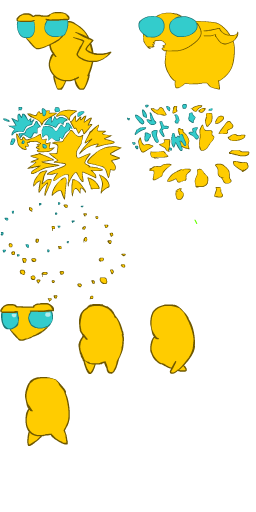
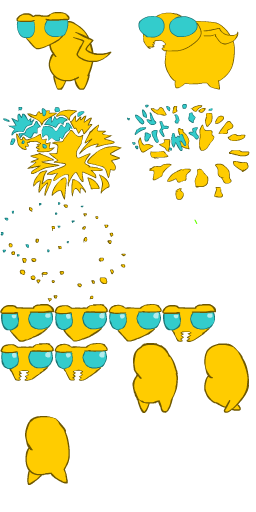
Creating an animator to the player's head

Changed region(s): [[0.0, 0.5938, 0.9688, 0.9688]]

diff --git a/GameCore/ThisGame/PlayerStuff/Player.cs b/GameCore/ThisGame/PlayerStuff/Player.cs
@@ -16,6 +16,7 @@ namespace PaperWork
     //close game when ESC pressed
     // jump animation
     // look up animation (open mouth)
+    //antenas
     public class Player :
         Collider
         , ICollisionHandler
@@ -46,7 +47,8 @@ namespace PaperWork
         private readonly ICollisionHandler CollisionHandler;
         private readonly IUpdateHandler UpdateHandler;
         public readonly InputRepository Inputs;
-        private readonly Animator Animation;
+        private readonly Animator BodyAnimation;
+        private readonly Animator HeadAnimation;
 
         public bool FacingRight { get; set; }
         public bool AnimationFacingRight { get; set; }
@@ -61,7 +63,8 @@ namespace PaperWork
             Width = 700;
             Height = 1100;
 
-            Animation = CreateAnimator();
+            BodyAnimation = CreateBodyAnimator();
+            HeadAnimation = CreateHeadAnimator();
 
             Right_ChestPaperDetetor = new Detector<IPlayerMovementBlocker>(1150, -500, 100, 100) { Parent = this };
             Right_FeetPaperDetector = new Detector<IPlayerMovementBlocker>(1150, 500, 100, 100) { Parent = this };
@@ -107,39 +110,30 @@ namespace PaperWork
             world.Add(this);
         }
 
-        private Animator CreateAnimator()
+        private Animator CreateHeadAnimator()
         {
-            var leftOffsetX = -300;
+            var head_right = GeneratedContent.Create_recycle_mantis_Head(200, -100, 0.85f, (int)(540 * 1.4f), (int)(380 * 1.4f), true);
+            var head_left = GeneratedContent.Create_recycle_mantis_Head(leftOffsetX, -100, 0.85f, (int)(540 * 1.4f), (int)(380 * 1.4f));
 
+            var Animator = new Animator(
+                new AnimationTransition(new Animation[] { head_right }, head_left, () => AnimationFacingRight == false)
+                , new AnimationTransition(new Animation[] { head_left }, head_right, () => AnimationFacingRight)
+
+            );
+
+            return Animator;
+        }
+
+        const int leftOffsetX = -300;
+        private Animator CreateBodyAnimator()
+        {
             var walkingWidth = (int)(700 * 1.4f);
-            var head_right = new Texture("Head", 200, -100, (int)(540 * 1.4f), (int)(380 * 1.4f)) { ZIndex = 0.01f, Flipped = true };
-            var head_left = new Texture("Head", leftOffsetX, -100, (int)(540 * 1.4f), (int)(380 * 1.4f)) { ZIndex = 0.01f };
 
-            SimpleAnimation stand_right = new SimpleAnimation(
-                 new AnimationFrame(10,
-                 new Texture("Walk0001", 0, 100, walkingWidth, walkingWidth) { Flipped = true, ZIndex = 1 }
-                 , head_right)
+            var walkAnimation_right = GeneratedContent.Create_recycle_mantis_Walk(0, 100, 0.86f, walkingWidth, walkingWidth, true);
+            var walkAnimation_left = GeneratedContent.Create_recycle_mantis_Walk(leftOffsetX, 100, 0.86f, walkingWidth, walkingWidth);
 
-            );
-
-            SimpleAnimation stand_left = new SimpleAnimation(
-                new AnimationFrame(10, new Texture("Walk0001", leftOffsetX, 100, walkingWidth, walkingWidth) { ZIndex = 1 }
-                , head_left)
-            );
-
-            SimpleAnimation walkAnimation_right = new SimpleAnimation(
-                  new AnimationFrame(10, new Texture("Walk0001", 0, 100, walkingWidth, walkingWidth) { Flipped = true, ZIndex = 1 }, head_right)
-                , new AnimationFrame(10, new Texture("Walk0002", 0, 100, walkingWidth, walkingWidth) { Flipped = true, ZIndex = 1 }, head_right)
-                , new AnimationFrame(10, new Texture("Walk0001", 0, 100, walkingWidth, walkingWidth) { Flipped = true, ZIndex = 1 }, head_right)
-                , new AnimationFrame(10, new Texture("Walk0003", 0, 100, walkingWidth, walkingWidth) { Flipped = true, ZIndex = 1 }, head_right)
-            );
-
-            SimpleAnimation walkAnimation_left = new SimpleAnimation(
-                 new AnimationFrame(10, new Texture("Walk0001", leftOffsetX, 100, walkingWidth, walkingWidth) { ZIndex = 1 }, head_left)
-                , new AnimationFrame(10, new Texture("Walk0002", leftOffsetX, 100, walkingWidth, walkingWidth) { ZIndex = 1 }, head_left)
-                , new AnimationFrame(10, new Texture("Walk0001", leftOffsetX, 100, walkingWidth, walkingWidth) { ZIndex = 1 }, head_left)
-                , new AnimationFrame(10, new Texture("Walk0003", leftOffsetX, 100, walkingWidth, walkingWidth) { ZIndex = 1 }, head_left)
-            );
+            var stand_right = GeneratedContent.Create_recycle_mantis_Walk(0, 100, 0.86f, walkingWidth, walkingWidth, true);
+            var stand_left = GeneratedContent.Create_recycle_mantis_Walk(leftOffsetX, 100, 0.86f, walkingWidth, walkingWidth);
 
             var Animator = new Animator(
                 new AnimationTransition(
@@ -189,7 +183,8 @@ namespace PaperWork
 
         public void Update()
         {
-            Animation.Update();
+            BodyAnimation.Update();
+            HeadAnimation.Update();
             Grounded = GroundDetector.GetDetectedItems().Any();
 
             UpdateHandler.Update();
@@ -231,7 +226,7 @@ namespace PaperWork
 
         public IEnumerable<Texture> GetTextures()
         {
-            return Animation.GetTextures();
+            return BodyAnimation.GetTextures().Concat(HeadAnimation.GetTextures());
         }
     }
 }

diff --git a/SharedContent/GeneratedContent.cs b/SharedContent/GeneratedContent.cs
@@ -51,7 +51,21 @@ public class GeneratedContent
     {
         var animation = new SimpleAnimation(
             
-            new AnimationFrame(10, new GameCore.Texture("recycle_mantis", X, Y, Width, Height, new Rectangle(0, 303, 54, 38)){ ZIndex = Z, Flipped = Flipped })
+            new AnimationFrame(10, new GameCore.Texture("recycle_mantis", X, Y, Width, Height, new Rectangle(0, 303, 54, 39)){ ZIndex = Z, Flipped = Flipped }),
+            new AnimationFrame(10, new GameCore.Texture("recycle_mantis", X, Y, Width, Height, new Rectangle(54, 303, 54, 39)){ ZIndex = Z, Flipped = Flipped }),
+            new AnimationFrame(10, new GameCore.Texture("recycle_mantis", X, Y, Width, Height, new Rectangle(108, 303, 54, 39)){ ZIndex = Z, Flipped = Flipped })
+        );
+
+        return animation;
+    }
+
+    public static SimpleAnimation Create_recycle_mantis_HeadUp(int X, int Y, float Z, int Width, int Height, bool Flipped = false)
+    {
+        var animation = new SimpleAnimation(
+            
+            new AnimationFrame(10, new GameCore.Texture("recycle_mantis", X, Y, Width, Height, new Rectangle(162, 303, 54, 39)){ ZIndex = Z, Flipped = Flipped }),
+            new AnimationFrame(10, new GameCore.Texture("recycle_mantis", X, Y, Width, Height, new Rectangle(0, 342, 54, 39)){ ZIndex = Z, Flipped = Flipped }),
+            new AnimationFrame(10, new GameCore.Texture("recycle_mantis", X, Y, Width, Height, new Rectangle(54, 342, 54, 39)){ ZIndex = Z, Flipped = Flipped })
         );
 
         return animation;
@@ -61,9 +75,9 @@ public class GeneratedContent
     {
         var animation = new SimpleAnimation(
             
-            new AnimationFrame(10, new GameCore.Texture("recycle_mantis", X, Y, Width, Height, new Rectangle(54, 303, 71, 72)){ ZIndex = Z, Flipped = Flipped }),
-            new AnimationFrame(10, new GameCore.Texture("recycle_mantis", X, Y, Width, Height, new Rectangle(125, 303, 71, 72)){ ZIndex = Z, Flipped = Flipped }),
-            new AnimationFrame(10, new GameCore.Texture("recycle_mantis", X, Y, Width, Height, new Rectangle(0, 375, 71, 72)){ ZIndex = Z, Flipped = Flipped })
+            new AnimationFrame(10, new GameCore.Texture("recycle_mantis", X, Y, Width, Height, new Rectangle(108, 342, 71, 72)){ ZIndex = Z, Flipped = Flipped }),
+            new AnimationFrame(10, new GameCore.Texture("recycle_mantis", X, Y, Width, Height, new Rectangle(179, 342, 71, 72)){ ZIndex = Z, Flipped = Flipped }),
+            new AnimationFrame(10, new GameCore.Texture("recycle_mantis", X, Y, Width, Height, new Rectangle(0, 414, 71, 72)){ ZIndex = Z, Flipped = Flipped })
         );
 
         return animation;

diff --git a/GameCore/ActualCore/BaseGame.cs b/GameCore/ActualCore/BaseGame.cs
@@ -5,6 +5,7 @@ namespace GameCore
 {
     public abstract class BaseGame : Game
     {
+        private const bool RENDER_COLLIDERS = true;
         private GraphicsDeviceManager graphics;
         private SpriteBatch spriteBatch;
 
@@ -80,7 +81,6 @@ namespace GameCore
                        cam.get_transformation(GraphicsDevice));
 
             var entiies = World.GetColliders();
-            var drawColliders = false;
 
             if (entiies == null)
                 return;
@@ -94,7 +94,7 @@ namespace GameCore
                 {
                     var dimensions = item.As<DimensionalThing>();
 
-                    if (drawColliders)
+                    if (RENDER_COLLIDERS)
                     {
                         DrawBorder(
                                         new Rectangle(

diff --git a/GameCore/ThisGame/Paper.cs b/GameCore/ThisGame/Paper.cs
@@ -46,7 +46,7 @@ namespace PaperWork
 
             Animation = GeneratedContent.Create_trash_bag_Trash(
                 -(int)(SIZE * 0.1f)
-                , -(int)(SIZE * 0.1f)
+                , -(int)(SIZE * 0.15f)
                 , 0.98f
                 , (int)(SIZE * 1.2f)
                 , (int)(SIZE * 1.2f));
